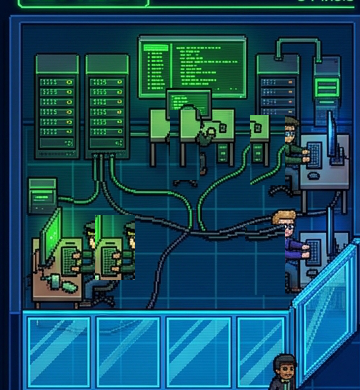
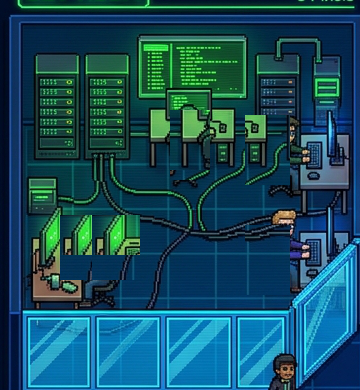
feat(tycoon): refine background inpainting using 32-pixel aligned stamp and scale modular agents to 0.8

diff --git a/archon-agency-tycoon/tools/extract_and_inpaint_rooms.py b/archon-agency-tycoon/tools/extract_and_inpaint_rooms.py
@@ -19,36 +19,26 @@ def main():
     # 1. Processing Dev Room Background
     print("Processing dev_room_bg.png...")
     dev_img = Image.open(dev_path).convert("RGBA")
-    
-    dev_crops = {
-        "geek_bottom_left": (95, 215, 135, 280),
-        "geek_center": (170, 110, 200, 180),
-        "geek_right_top": (250, 115, 285, 185),
-        "geek_right_bottom": (245, 225, 285, 295)
-    }
-    
-    for name, bbox in dev_crops.items():
-        cropped = dev_img.crop(bbox)
-        cropped.save(os.path.join(output_chars_dir, f"dev_{name}.png"))
-        print(f"  Saved character crop: dev_{name}.png")
-        
     dev_clean = dev_img.copy()
     
-    # Geek 2 (center x:170-200): Copy from x:140-170, y:110-180 (exact same horizontal strip)
-    patch_center = dev_img.crop((140, 110, 170, 180))
-    dev_clean.paste(patch_center, (170, 110))
+    # Geek 2 (center x:170-200, y:110-180) -> cover x:170-210 with shift +32 from 138-178
+    dev_clean.paste(dev_img.crop((138, 110, 178, 170)), (170, 110))
+    dev_clean.paste(dev_img.crop((202, 170, 242, 180)), (170, 170))
     
-    # Geek 3 (right top x:250-285): Copy from x:215-250, y:115-185
-    patch_rt = dev_img.crop((215, 115, 250, 185))
-    dev_clean.paste(patch_rt, (250, 115))
+    # Geek 3 (right top x:250-285, y:115-185) -> cover x:245-290 with shift +32 from 213-258
+    dev_clean.paste(dev_img.crop((213, 115, 258, 185)), (245, 115))
     
-    # Geek 4 (right bottom x:245-285): Copy from x:205-245, y:225-295
-    patch_rb = dev_img.crop((205, 225, 245, 295))
-    dev_clean.paste(patch_rb, (245, 225))
+    # Geek 4 (right bottom x:245-285, y:225-295) -> cover x:245-290 with shift +32 from 213-258
+    dev_clean.paste(dev_img.crop((213, 225, 258, 295)), (245, 225))
     
-    # Geek 1 (bottom left x:95-135, y:215-280): Copy from x:55-95, y:215-280
-    patch_bl = dev_img.crop((55, 215, 95, 280))
-    dev_clean.paste(patch_bl, (95, 215))
+    # Geek 1 & adjacent geek (bottom left x:60-135, y:215-280)
+    # Double cascade shift (+32 in X) to completely replace bottom-left desks with clean servers
+    # 1. Erase first geek (60-108) by shifting clean server rack (28-76) by +32
+    dev_clean.paste(dev_img.crop((28, 215, 76, 255)), (60, 215))
+    dev_clean.paste(dev_img.crop((127, 255, 175, 280)), (60, 255))
+    # 2. Erase second geek (92-140) by shifting the newly cleaned server rack (60-108) by +32
+    dev_clean.paste(dev_clean.crop((60, 215, 108, 255)), (92, 215))
+    dev_clean.paste(dev_clean.crop((60, 255, 108, 280)), (92, 255))
     
     # Save clean dev background
     dev_clean.save(dev_path)
@@ -57,41 +47,22 @@ def main():
     # 2. Processing Sales Room Background
     print("Processing sales_room_bg.png...")
     sales_img = Image.open(sales_path).convert("RGBA")
-    
-    sales_crops = {
-        "sales_console_left": (100, 125, 135, 185),
-        "sales_console_right": (235, 120, 270, 180),
-        "sales_center_desk": (170, 225, 205, 290),
-        "sales_stand_right": (280, 210, 310, 280),
-        "sales_peeking_left": (0, 260, 20, 320)
-    }
-    
-    for name, bbox in sales_crops.items():
-        cropped = sales_img.crop(bbox)
-        cropped.save(os.path.join(output_chars_dir, f"sales_{name}.png"))
-        print(f"  Saved character crop: sales_{name}.png")
-        
     sales_clean = sales_img.copy()
     
-    # Left console guy (x:100-135, y:125-185) -> Copy from x:65-100, y:125-185
-    patch_s_cl = sales_img.crop((65, 125, 100, 185))
-    sales_clean.paste(patch_s_cl, (100, 125))
+    # Left console guy -> cover x:95-140 with shift by +32 from 63-108
+    sales_clean.paste(sales_img.crop((63, 125, 108, 185)), (95, 125))
     
-    # Right console girl (x:235-270, y:120-180) -> Copy from x:200-235, y:120-180
-    patch_s_cr = sales_img.crop((200, 120, 235, 180))
-    sales_clean.paste(patch_s_cr, (235, 120))
+    # Right console girl -> cover x:230-275 with shift by +32 from 198-243
+    sales_clean.paste(sales_img.crop((198, 120, 243, 180)), (230, 120))
     
-    # Center desk guy (x:170-205, y:225-290) -> Copy from x:135-170, y:225-290
-    patch_s_cd = sales_img.crop((135, 225, 170, 290))
-    sales_clean.paste(patch_s_cd, (170, 225))
+    # Center desk guy -> cover x:165-215 with shift by +32 from 133-183
+    sales_clean.paste(sales_img.crop((133, 225, 183, 290)), (165, 225))
     
-    # Right standing girl (x:280-310, y:210-280) -> Copy from x:250-280, y:210-280
-    patch_s_sr = sales_img.crop((250, 210, 280, 280))
-    sales_clean.paste(patch_s_sr, (280, 210))
+    # Right standing girl -> cover x:275-315 with shift by +32 from 243-283
+    sales_clean.paste(sales_img.crop((243, 210, 283, 280)), (275, 210))
     
-    # Far left guy peeking out (x:0-20, y:260-320) -> Copy from x:20-40, y:260-320
-    patch_s_pl = sales_img.crop((20, 260, 40, 320))
-    sales_clean.paste(patch_s_pl, (0, 260))
+    # Far left guy peeking out -> cover x:0-32 with shift by -32 from 32-64
+    sales_clean.paste(sales_img.crop((32, 260, 64, 320)), (0, 260))
     
     # Save clean sales background
     sales_clean.save(sales_path)
@@ -100,3 +71,4 @@ def main():
 
 if __name__ == "__main__":
     main()
+
